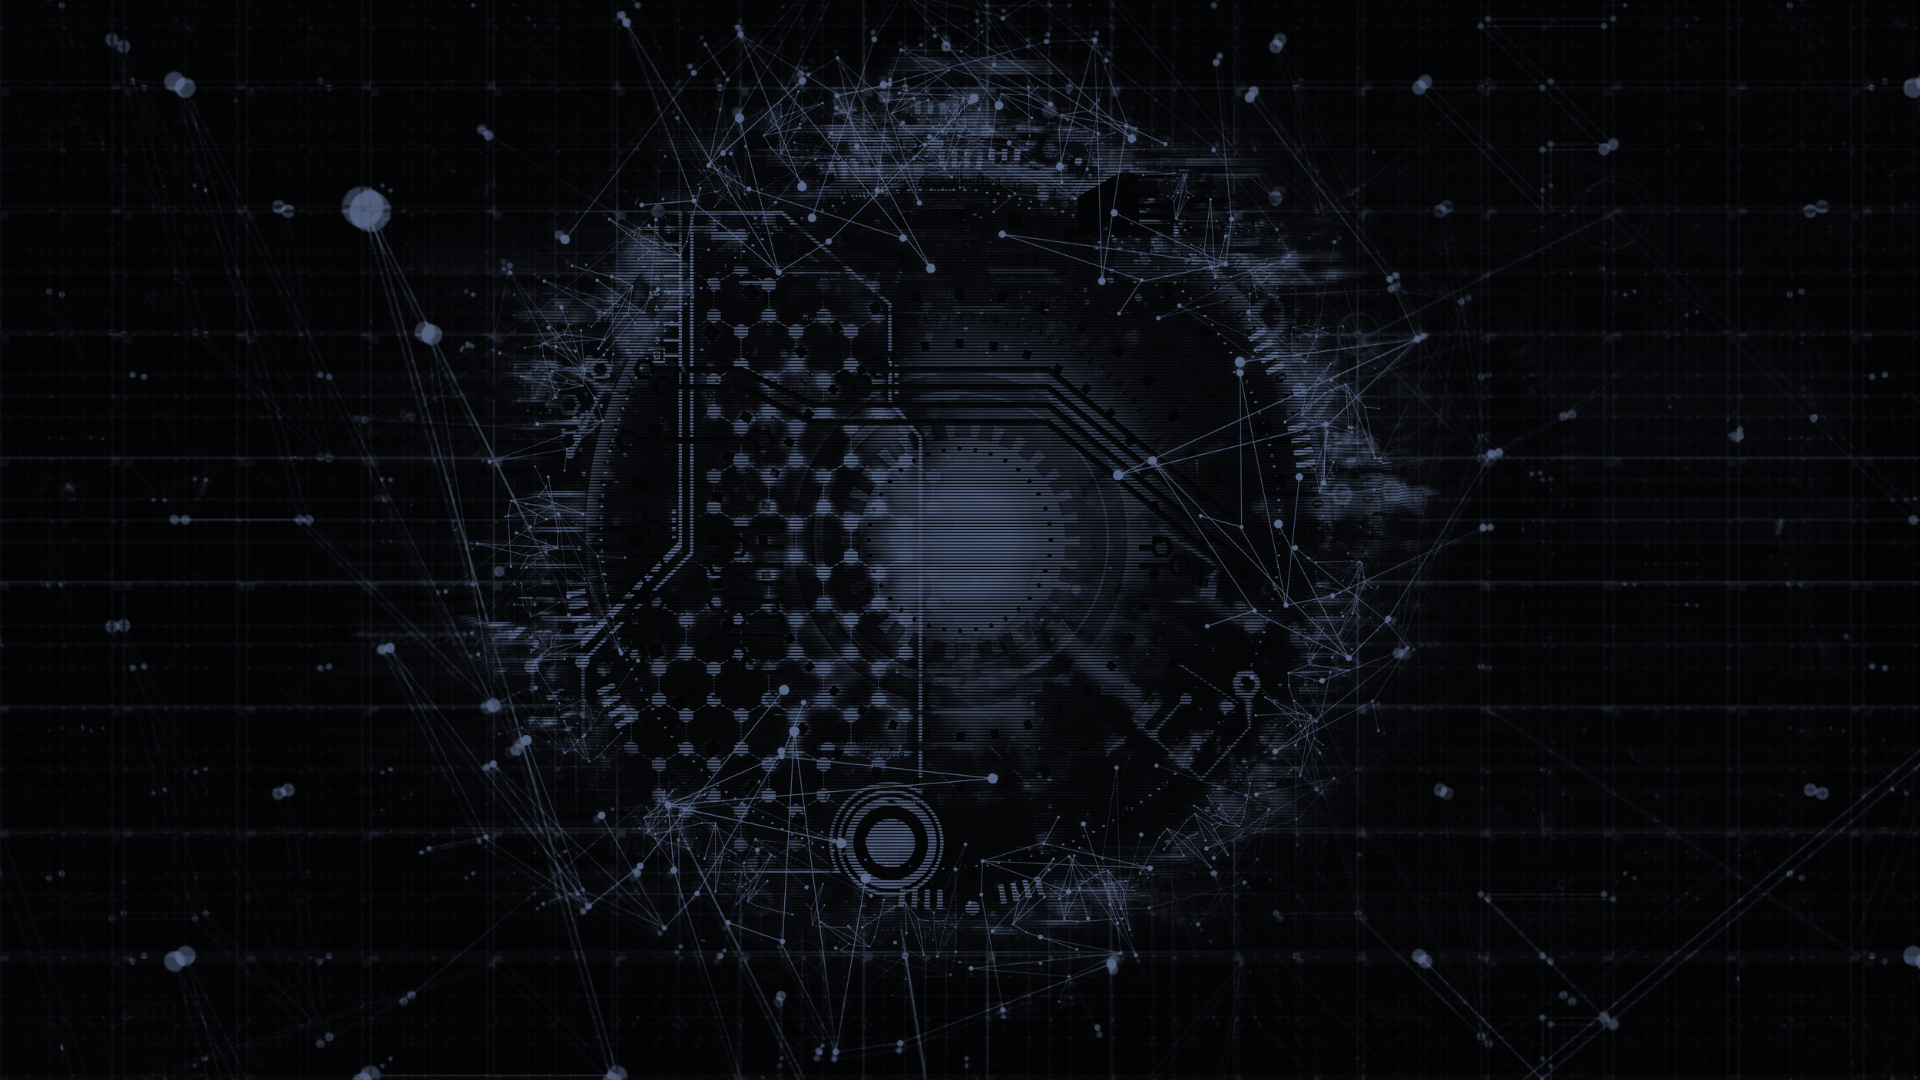
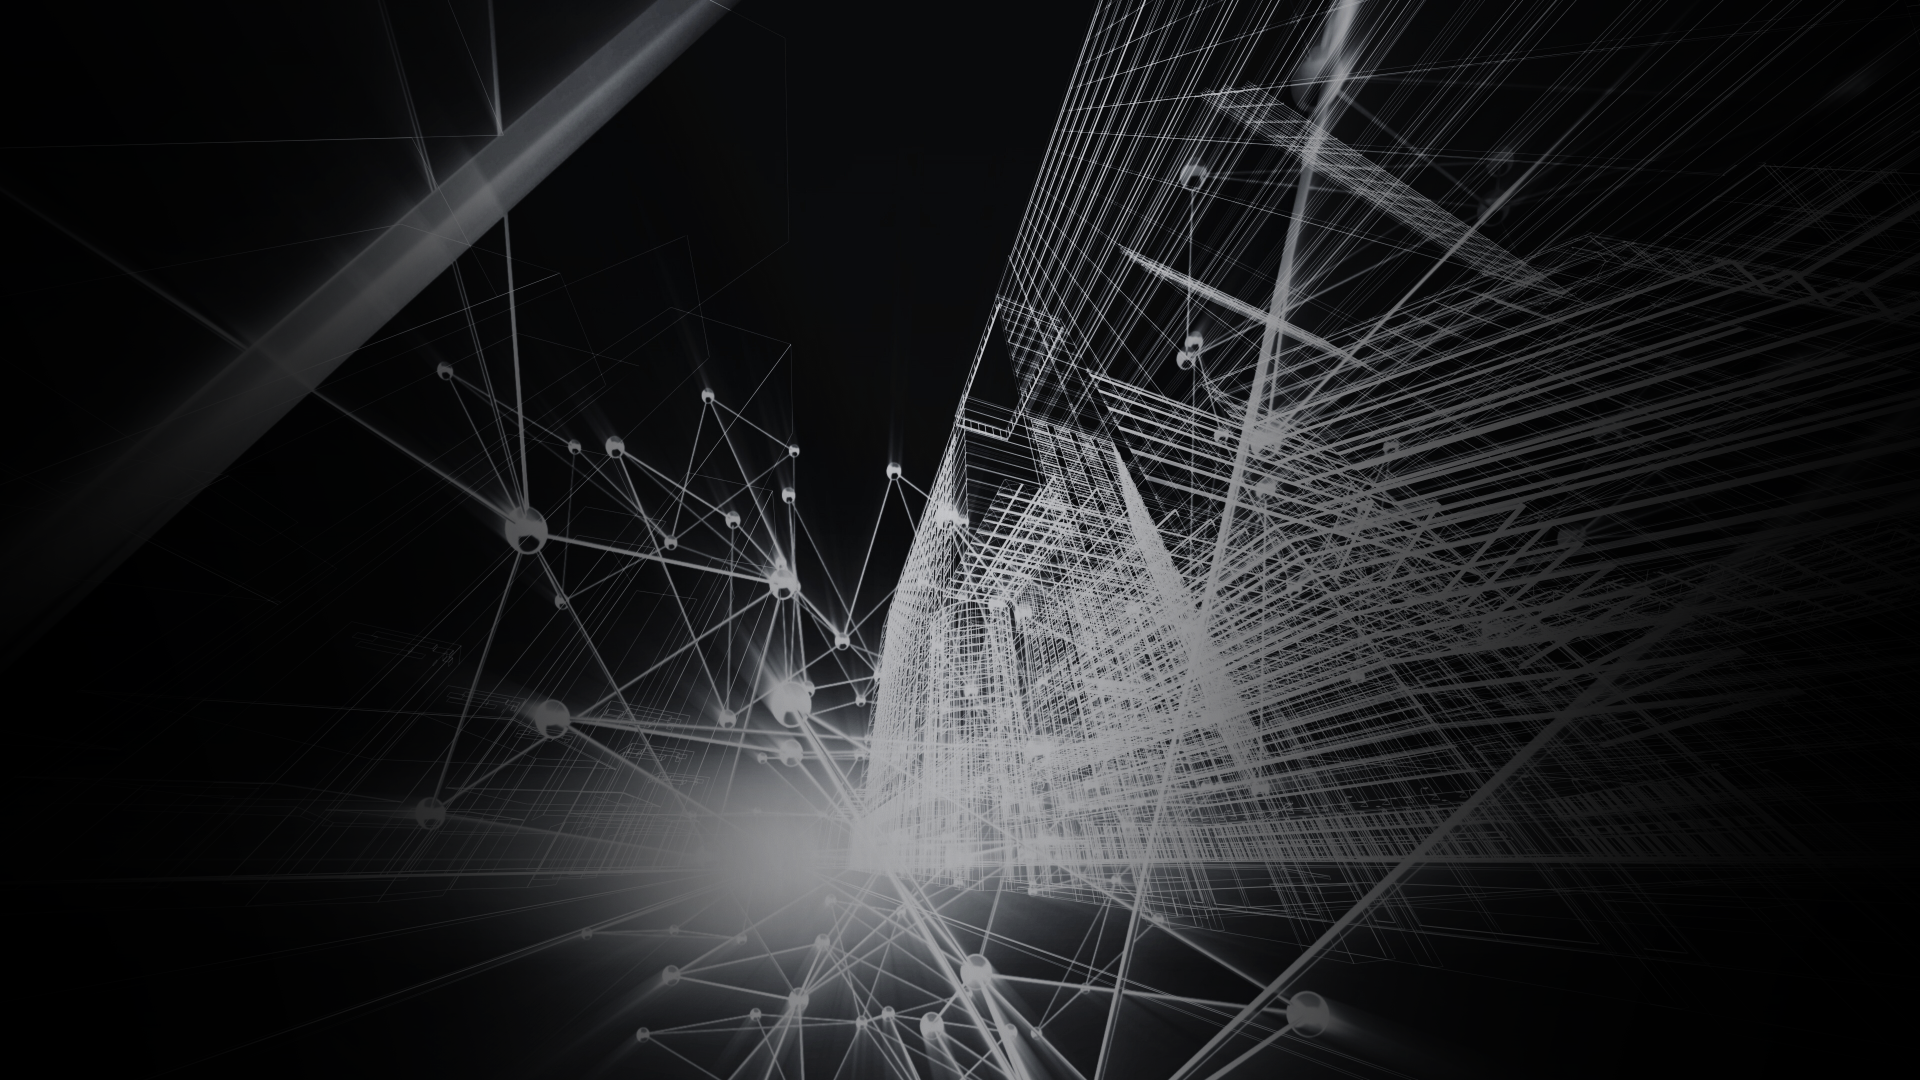
edits

diff --git a/assets/css/templatemo-scholar.css b/assets/css/templatemo-scholar.css
@@ -659,7 +659,7 @@ Banner Style
 */
 
 .main-banner {
-  background-image: url(../images/website-background-modified.png);
+  background-image: url(../images/website-background-1.png);
   background-position: right bottom;
   background-repeat: no-repeat;
   background-size: cover;
@@ -667,7 +667,7 @@ Banner Style
 }
 
 .main-banner .item-1 {
-  background-image: url(../images/HARIS-background-1.png);
+  background-image: url(../images/HARIS-background-3.png);
 }
 
 .main-banner .item-2 {
@@ -1951,9 +1951,9 @@ body {
 .nav li .submenu {
   display: none;
   position: absolute;
-  top: 100%;
+  /* top: 100%; */
   left: 0;
-  background: #33333328;
+  background: #000000;
   list-style: none;
   margin: 0;
   padding: 0;

diff --git a/index.html b/index.html
@@ -7,7 +7,7 @@
     <meta name="viewport" content="width=device-width, initial-scale=1, shrink-to-fit=no">
     <link href="https://fonts.googleapis.com/css2?family=Poppins:wght@100;200;300;400;500;600;700;800;900&display=swap" rel="stylesheet">
 
-    <title>Scholar - Online School HTML5 Template</title>
+    <title>Signals | Kernels</title>
 
     <!-- Bootstrap core CSS -->
     <link href="vendor/bootstrap/css/bootstrap.min.css" rel="stylesheet">
